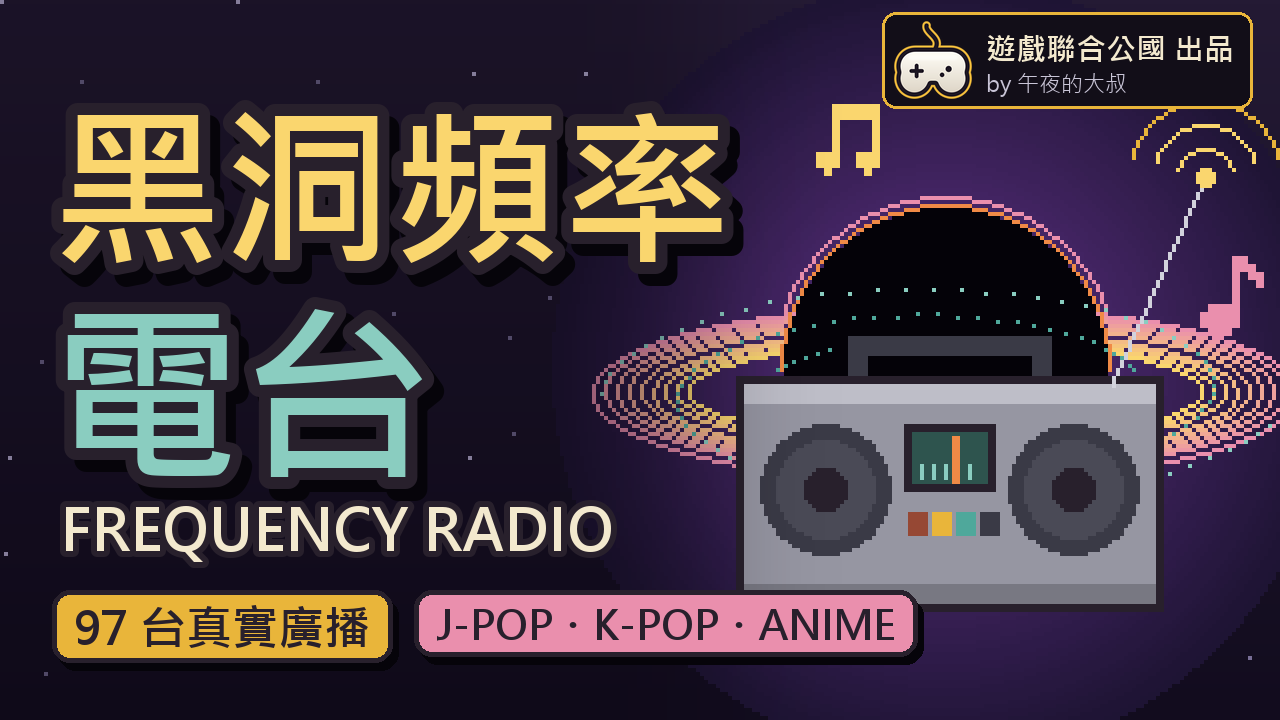
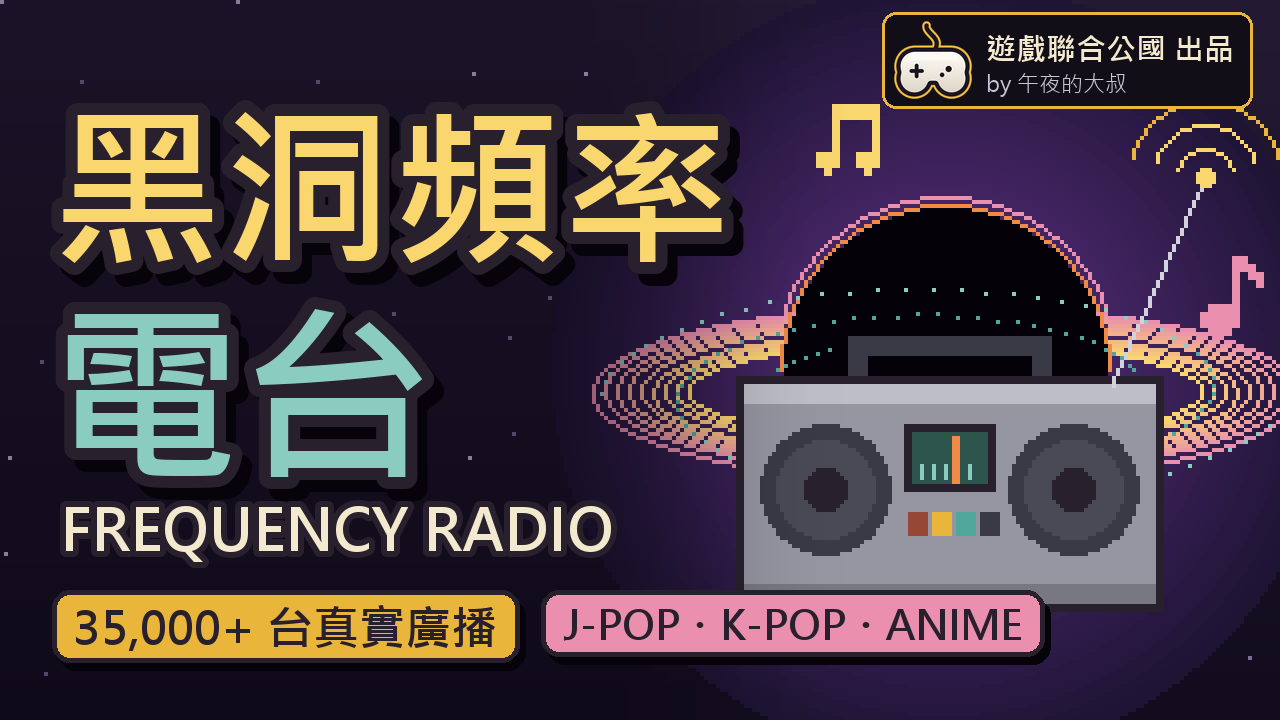
Frequency Radio v0.5.0: 35,511 stations, region picker, search

Changed region(s): [[0.0625, 0.7944, 0.8438, 0.9472]]

diff --git a/README.md b/README.md
@@ -14,11 +14,15 @@
 
 卡帶播放器多一個「電台」分頁：卡帶／電台切換，選國家/地區、選電台，收聽真實的網路廣播。卡帶和電台同時只會播一個。
 
-- 收錄 23 個國家/地區、97 台：音樂台、新聞台，以及動漫 / J-pop / K-pop / Vocaloid 網路電台，每台標示類型（Pop、JPop、KPop、Anime、News…）。
+- 收錄 70 個國家/地區、35,511 台：音樂台、新聞台，以及動漫 / J-pop / K-pop / Vocaloid 網路電台，有類型標示（Pop、JPop、KPop、Anime、News…）。其中 1,279 台是照電台原 LOGO 重畫的圖示，其他台顯示寫著台名的徽章。
+- 選台：先選國家/地區，台數多的再選州／省（加州、巴伐利亞、浙江…，中文介面顯示中文地名），再選電台；國家/地區照洲排列。
+- 台灣 121 台，分成全域、北部、中部、南部、東部離島。
+- 搜尋：輸入台名、類型或國家/地區，所有國家/地區的電台一起找，點一下就播。
 - 電台分頁時，控制鈕作用在電台：播放、停止、上一台／下一台。
-- 每一台各自記住自己的音量。
+- 每一台各自記住自己的音量；自動音量平衡（預設開啟）會把小聲和大聲的台調到差不多。
 - 按星星把電台加到最愛，在「最愛」分頁直接點選播放。
-- 顯示電台 LOGO；播放時卡帶播放器會飄出音符。
+- 韓文、希臘文、泰文等遊戲字型沒有的台名，用 Windows 內建字型顯示。
+- 播放時卡帶播放器會飄出音符。
 - 搭配聯機模組「[深空串门：可能是联机的 | Probably Multiplayer](https://steamcommunity.com/sharedfiles/filedetails/?id=3828909239)」：拜訪同樣有裝本模組的玩家時，聽得到對方店裡正在放的電台。
 
 **下載**：[Steam 工作坊](https://steamcommunity.com/sharedfiles/filedetails/?id=3830589099)
